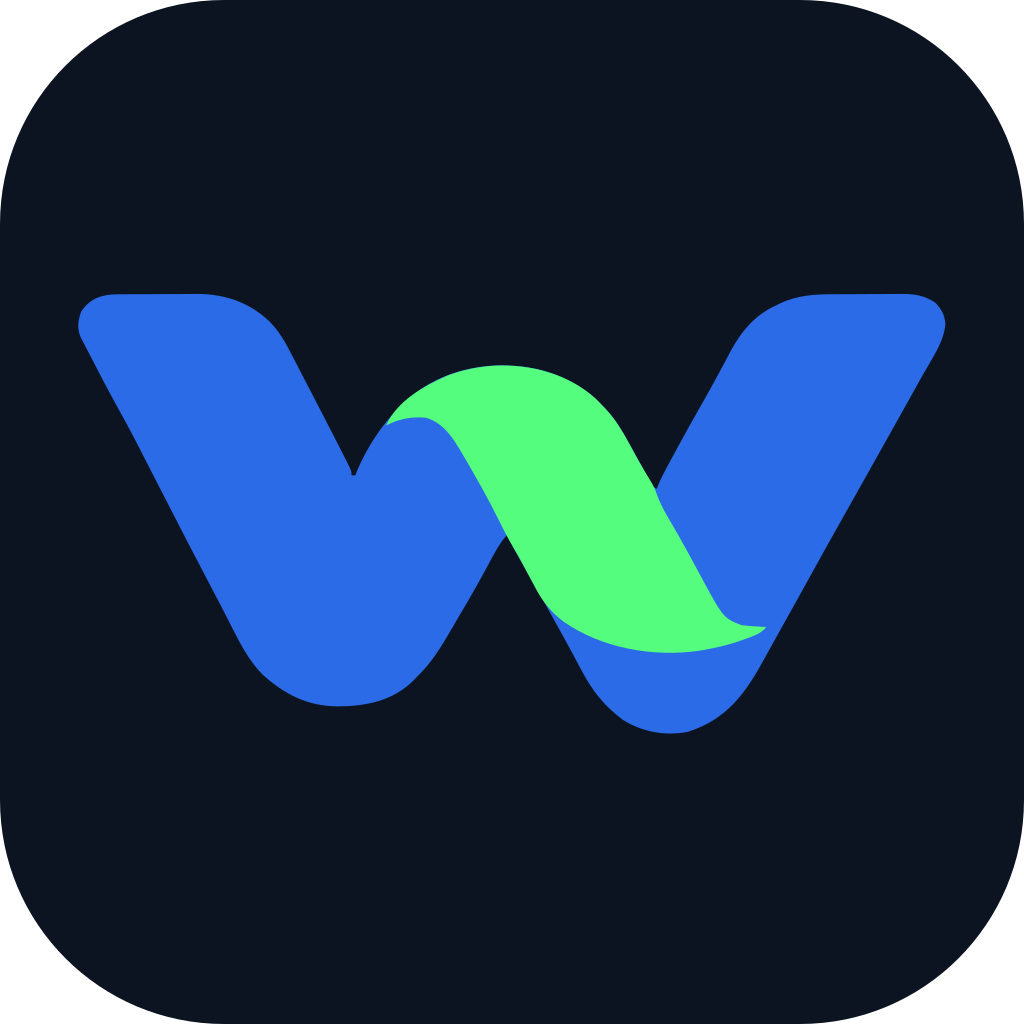
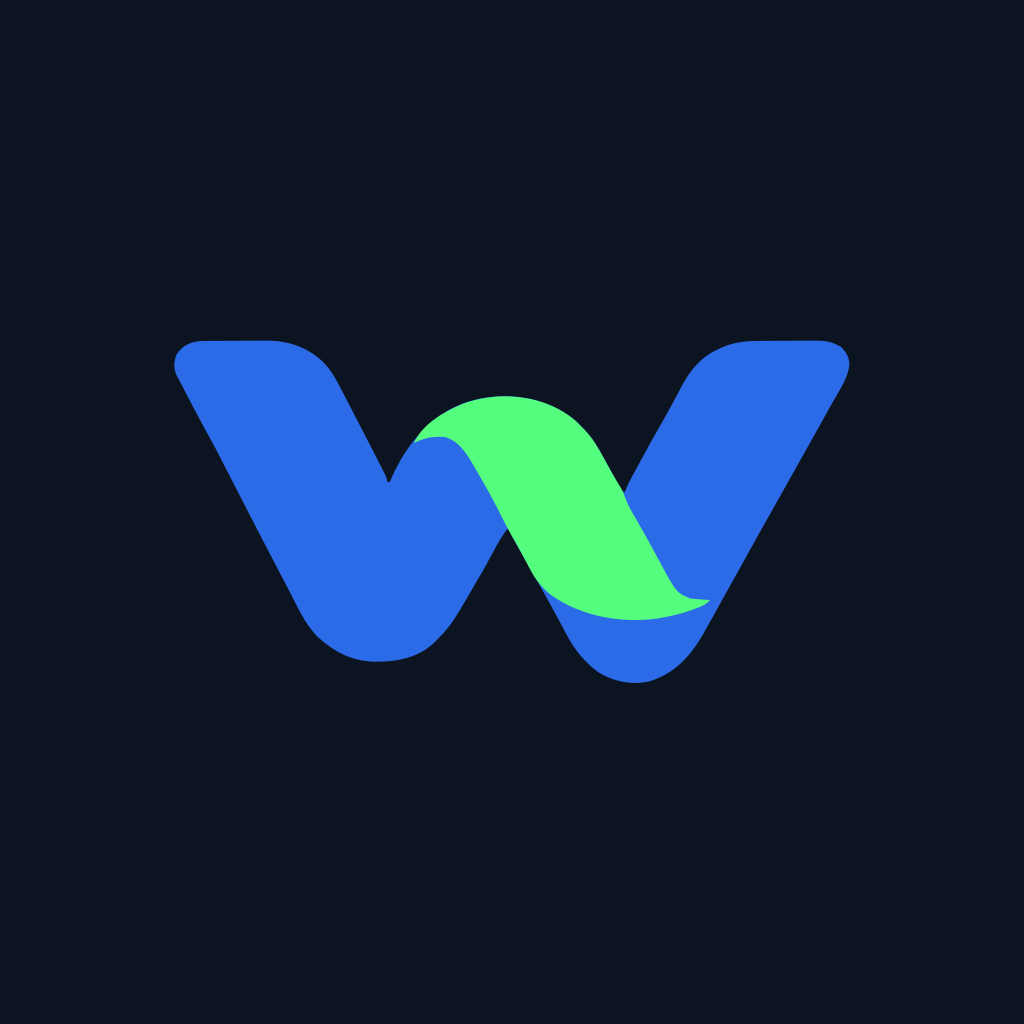
Skill y plugin de Weppa 0.3.9 (weppa-app f261653a77d0544f3f20ab8fde291ed13fd3ded0, sha256:650ab934a48efd6fc6d49131e86c0345249671154b153e772bbf044c2a7121c8)

diff --git a/README.md b/README.md
@@ -102,7 +102,7 @@ repositorio.
 - **`npx skills`:** vuelve a correr el comando de arriba, tal cual.
 
 Cada versión del plugin dice qué skill trae: `.claude-plugin/plugin.json` lleva la versión
-(`0.3.8`) y el digest de `skills/use-weppa/SKILL.md` (`sha256:650ab934a48efd6fc6d49131e86c0345249671154b153e772bbf044c2a7121c8`). Es el mismo digest
+(`0.3.9`) y el digest de `skills/use-weppa/SKILL.md` (`sha256:650ab934a48efd6fc6d49131e86c0345249671154b153e772bbf044c2a7121c8`). Es el mismo digest
 con que el MCP anuncia `skill://use-weppa/SKILL.md`: si coinciden, tienes la misma skill.
 
 ## Prueba rápida
@@ -129,4 +129,4 @@ niega (403) con «Solo mirar», autoriza de nuevo con «Operar».
 
 ## Licencia
 
-[Apache-2.0](LICENSE). Versión 0.3.8.
+[Apache-2.0](LICENSE). Versión 0.3.9.

diff --git a/CHANGELOG.md b/CHANGELOG.md
@@ -1,5 +1,9 @@
 # Cambios
 
+## 0.3.9
+
+- Empaquetado: ícono declarado en Codex y Cursor, y el cuadrado de la marca sin esquinas transparentes. La skill no cambia.
+
 ## 0.2.0
 
 - El MCP de Weppa (`https://mcp.weppa.co/mcp`) se conecta por OAuth: el plugin ya no lleva el encabezado
